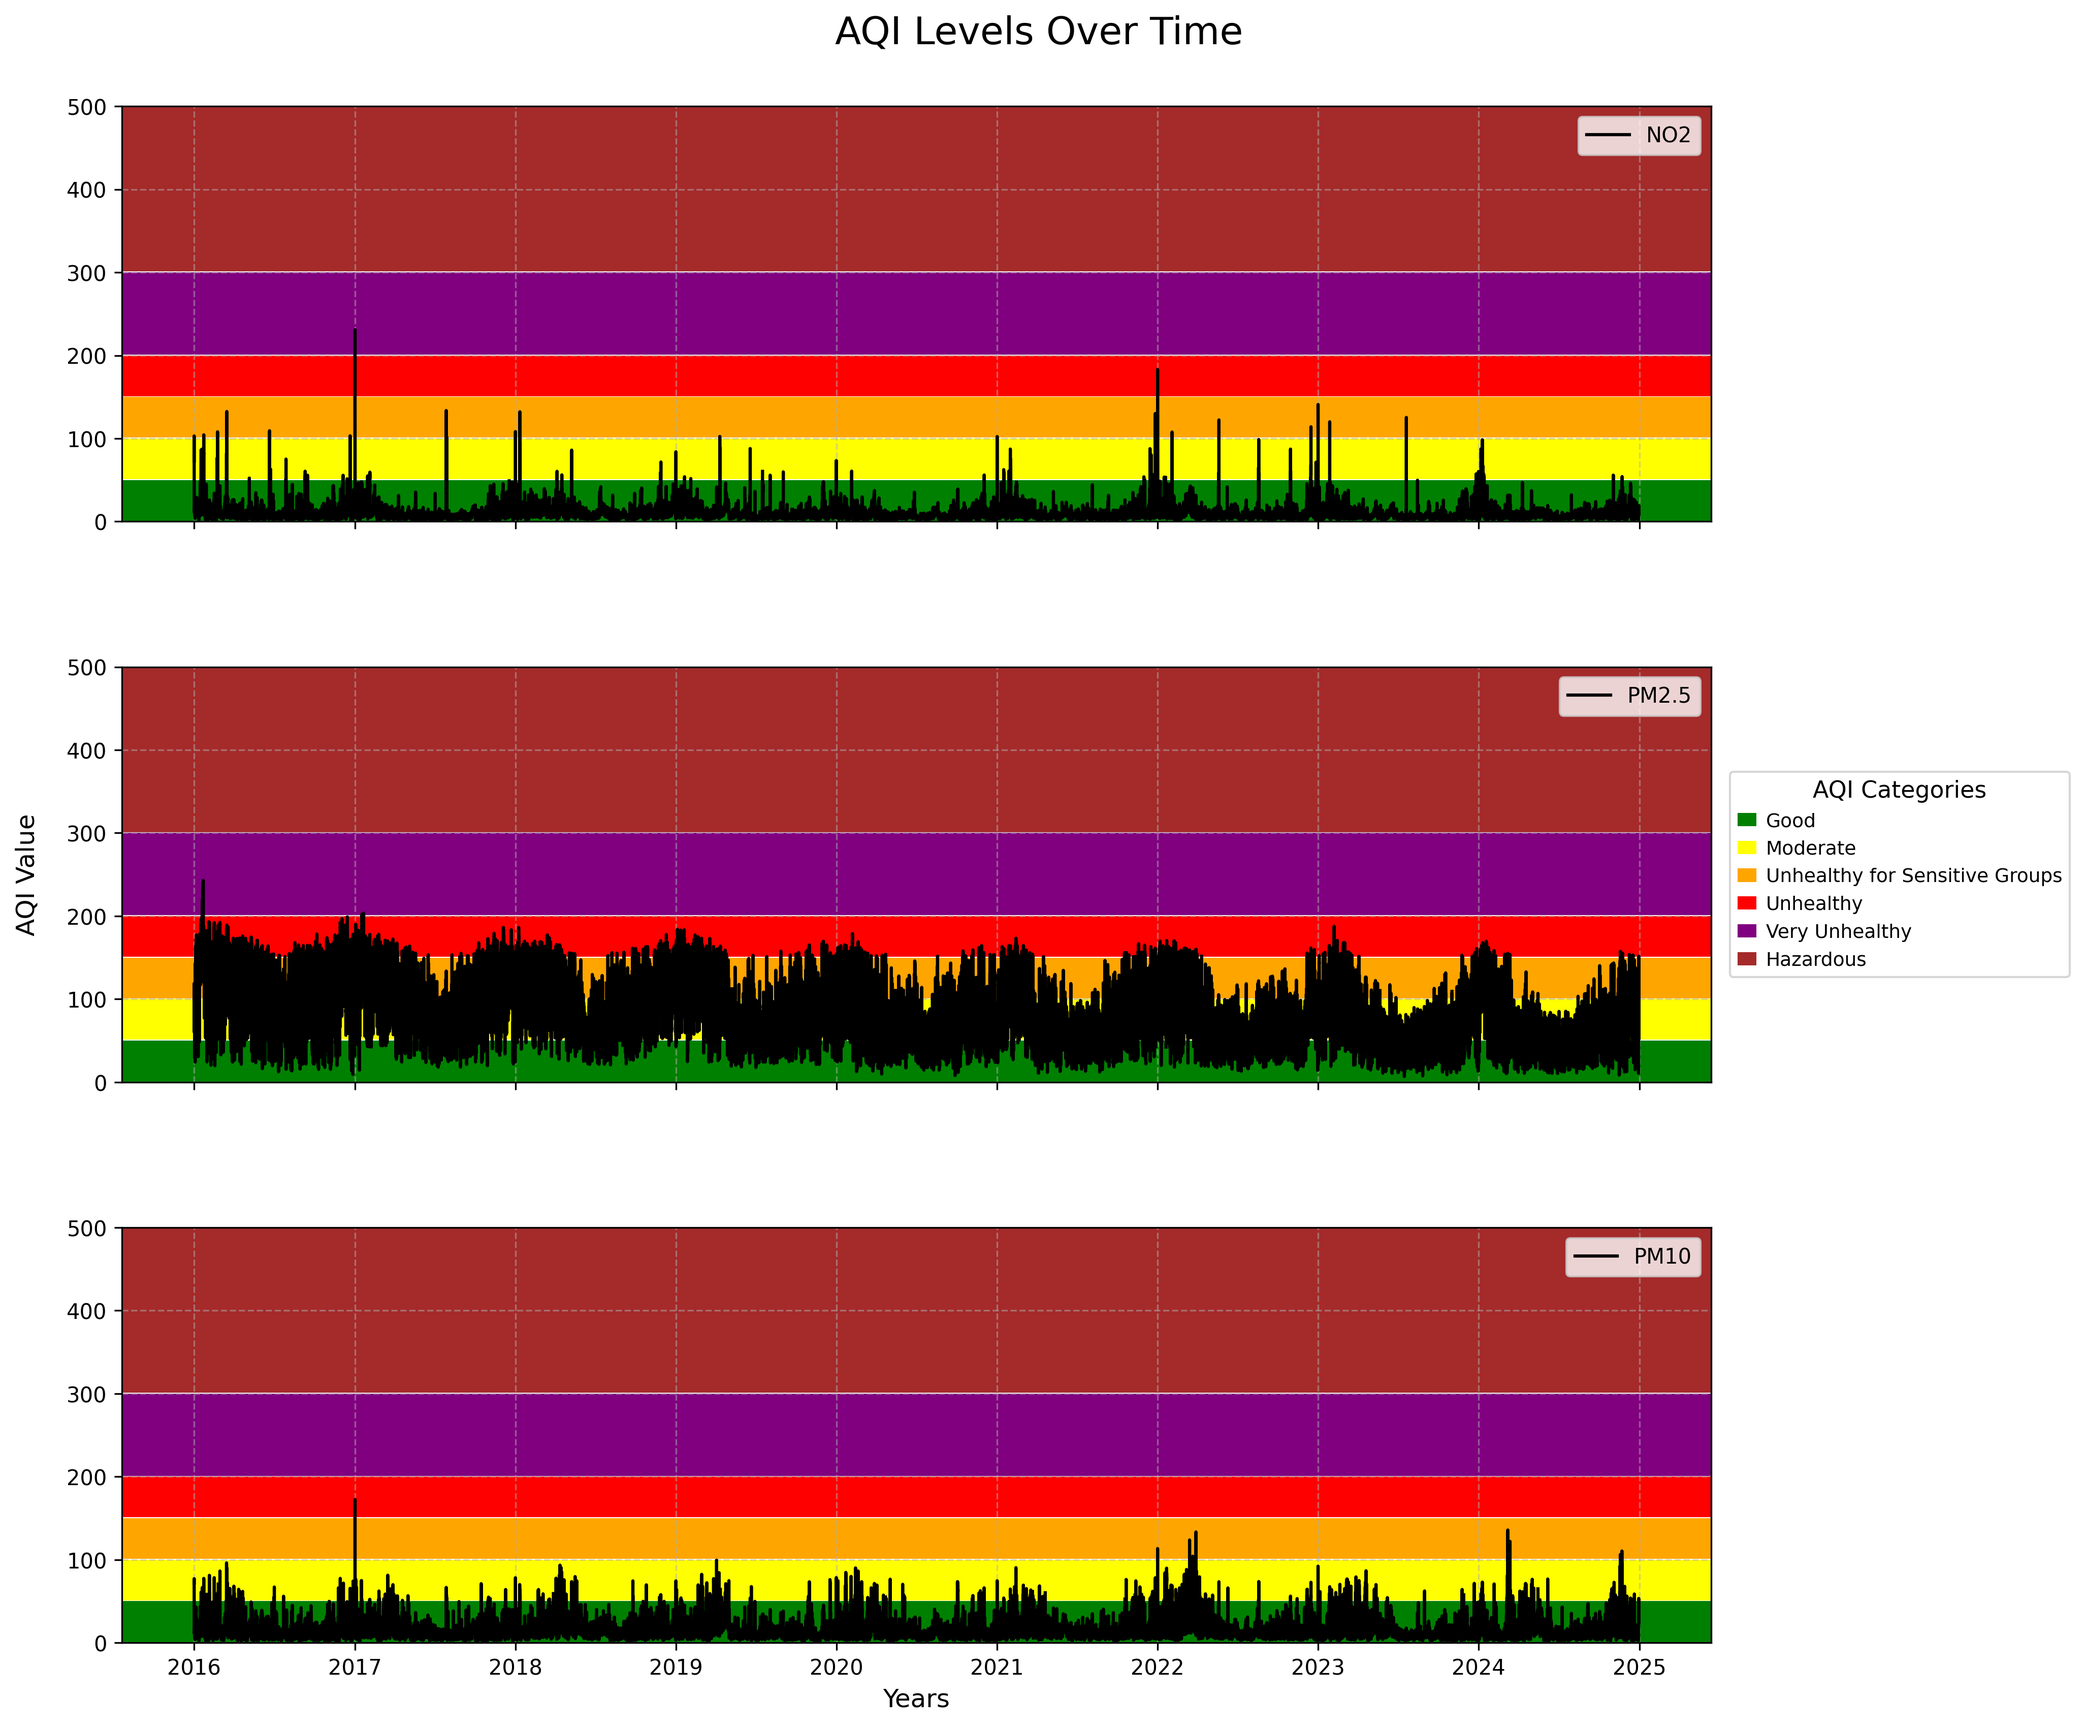
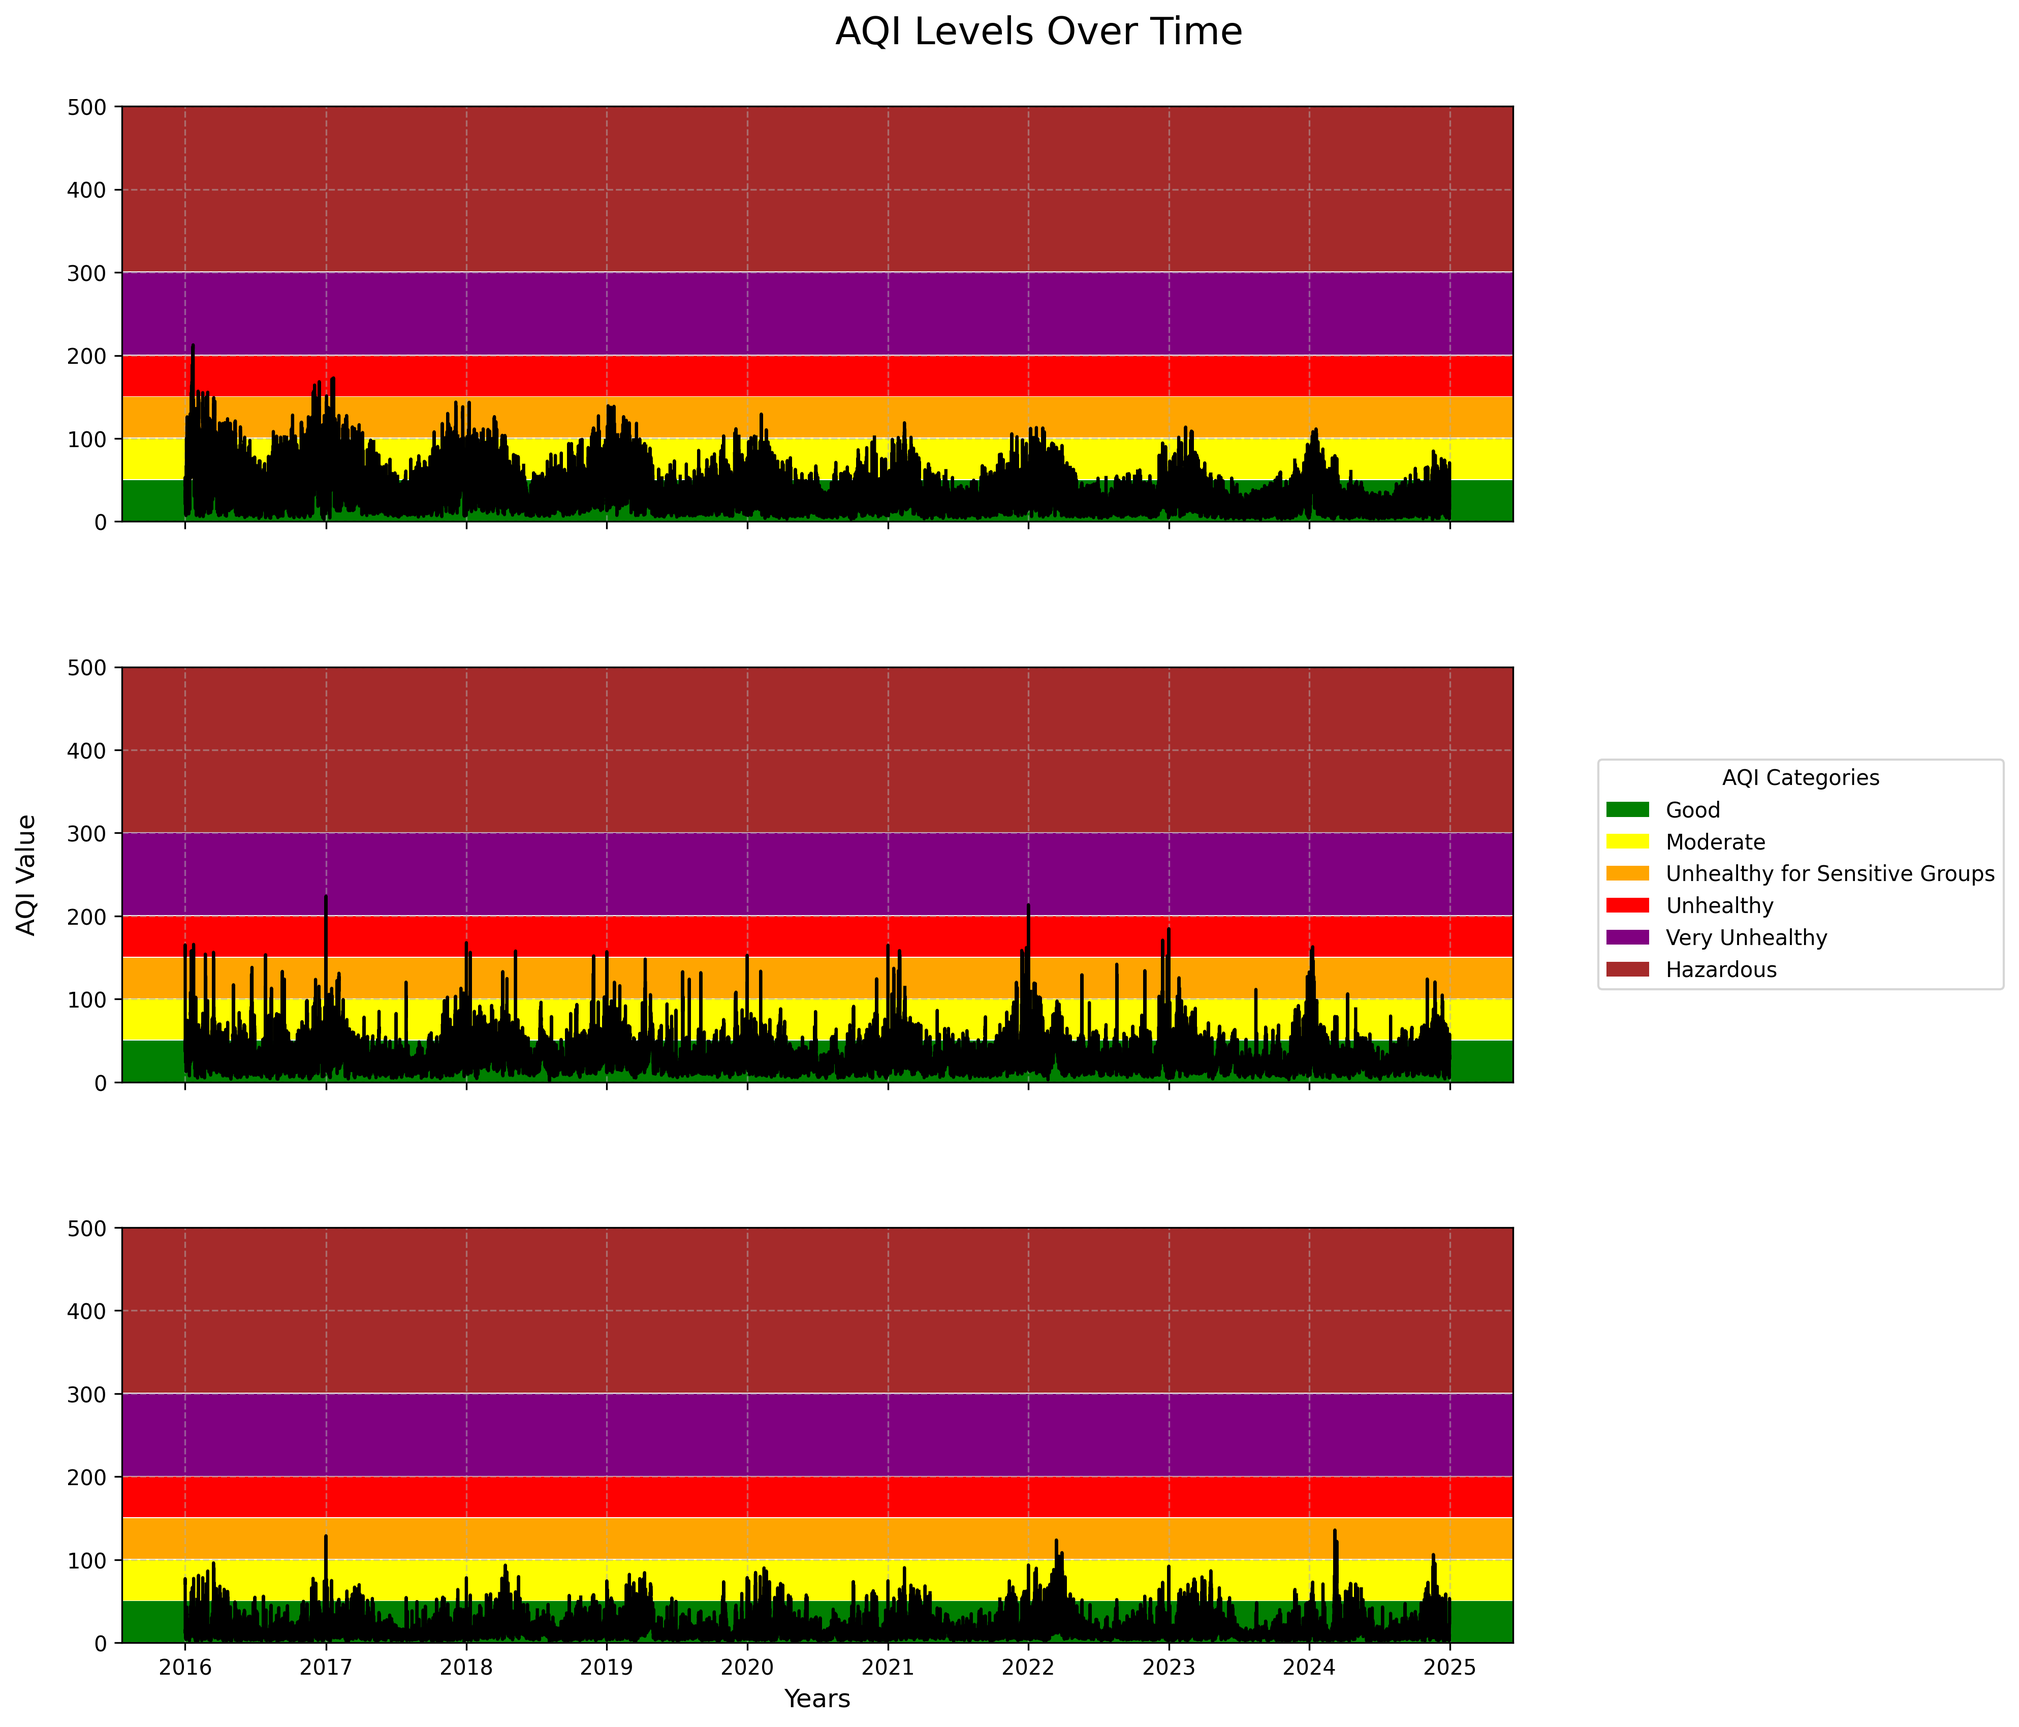
Fiksa file_path i plot_AQI_levels, retta skrive feil, la til tekst i Oppg5_visualisering

diff --git a/proj_environment-main/notebooks/Visualisering.py b/proj_environment-main/notebooks/Visualisering.py
@@ -9,9 +9,10 @@ import matplotlib.pyplot as plt
 project_dir = Path(__file__).resolve().parents[1]
 sys.path.insert(0, str(project_dir))
 data_dir = project_dir / "data"
-images_dir = os.path.join(project_dir, 'resources', 'images')
+images_dir = Path(project_dir) /'resources'/ 'images'
+file_path = images_dir/'aqi_levels.png'
 
-from src.Functions_Dataanalysis import calculate_aqi,plot_AQI_leves,plot_pollutantlevels
+from src.Functions_Dataanalysis import plot_AQI_levels,plot_pollutantlevels
 from Dataanalyse import NO2_seasonal_raw, PM25_seasonal_raw, PM10_seasonal_raw
 
 # Loading relevant data
@@ -48,7 +49,7 @@ aqi_colors = [
 ]
 
 # 1. Plotting the AQI data vs the standard AQI categories.
-plot_AQI_leves(data,aqi_breakpoints,aqi_colors,images_dir)
+plot_AQI_levels(data,aqi_breakpoints,aqi_colors,file_path)
 
 # 2. Making an interactive plot of the weekly average mean of pollution for each pollutant in one figure.
 plot_pollutantlevels(data,aqi_breakpoints)

diff --git a/proj_environment-main/src/Functions_Dataanalysis.py b/proj_environment-main/src/Functions_Dataanalysis.py
@@ -311,7 +311,7 @@ def reggresion_analysis(df,name,color,plot=True):
     return x_sorted, y_fit_sorted,seasonal
 
 
-def plot_AQI_leves(data,aqi_breakpoints,aqi_colors,images_dir):
+def plot_AQI_levels(data,aqi_breakpoints,aqi_colors,file_path):
     # Plotting the AQI for each pollutant from 2016-2025
     fig = plt.figure(figsize=(14, 12))
     gs  = gridspec.GridSpec(
@@ -354,7 +354,7 @@ def plot_AQI_leves(data,aqi_breakpoints,aqi_colors,images_dir):
     legend_ax.legend(
         patches, [p.get_label() for p in patches], title="AQI Categories", loc='center')
 
-    fig.savefig(images_dir, dpi=300, bbox_inches='tight')
+    fig.savefig(file_path, dpi=300, bbox_inches='tight')
     plt.show()
 
 

diff --git a/proj_environment-main/notebooks/Oppg5_Visualisering.md b/proj_environment-main/notebooks/Oppg5_Visualisering.md
@@ -40,7 +40,7 @@ navnet, fargen og y-verdien til hvert AQI-bånd på skalaen 0-500
 
 Funksjonen oppretter en matplotlib-figur på 14*12 tommer og deler den opp med GridSpec: tre rader i venstre kolonne for selve tidsseriene og en hel høyre kolonne til fargelegenden.
 Den setter en hovedtittel, samt en felles vertikal y-akseetikett med teksten AQI Value. For hvert forurensningsstoff i data blir konsentrasjonsverdien omgjort til AQI ved hjelp av calculate_aqi. Resultatet lagres i en ny DataFrame-kolonne kalt AQI, og plottes som en svart linje mot tid.
-Samtidig tegnes bakgrunnsrektangler (axhspan) som dekker hele plottområdet i de fargene som beskrives av aqi_colors; slik blir det lett å se hvilke deler av kurven som havner i “God”, “Moderat”, “Usunn” og så videre.
+Samtidig tegnes bakgrunnsrektangler (axhspan) som dekker hele plottområdet i de fargene som beskrives av aqi_colors, slik blir det lett å se hvilke deler av kurven som havner i de ulike helsekateogoriene. 
 Kun nederste subplot får x-akseetiketten Years. De andre skjuler x-etikettene for et ryddigere utseende. Alle tre akser får rutenett og y-akse-grense 0–500.
 I den høyre kolonnen bygges en egen legende av små fargede rektangler (Patch). Det gjør at figuren får en samlet forklaring uten å stjele plass fra tidsseriene.
 Til slutt lagres bildet som PNG ved å kalle fig.savefig(images_dir, dpi=300, bbox_inches='tight'), og plt.show() åpner vinduet (eller viser inline hvis du kjører i Jupyter).
